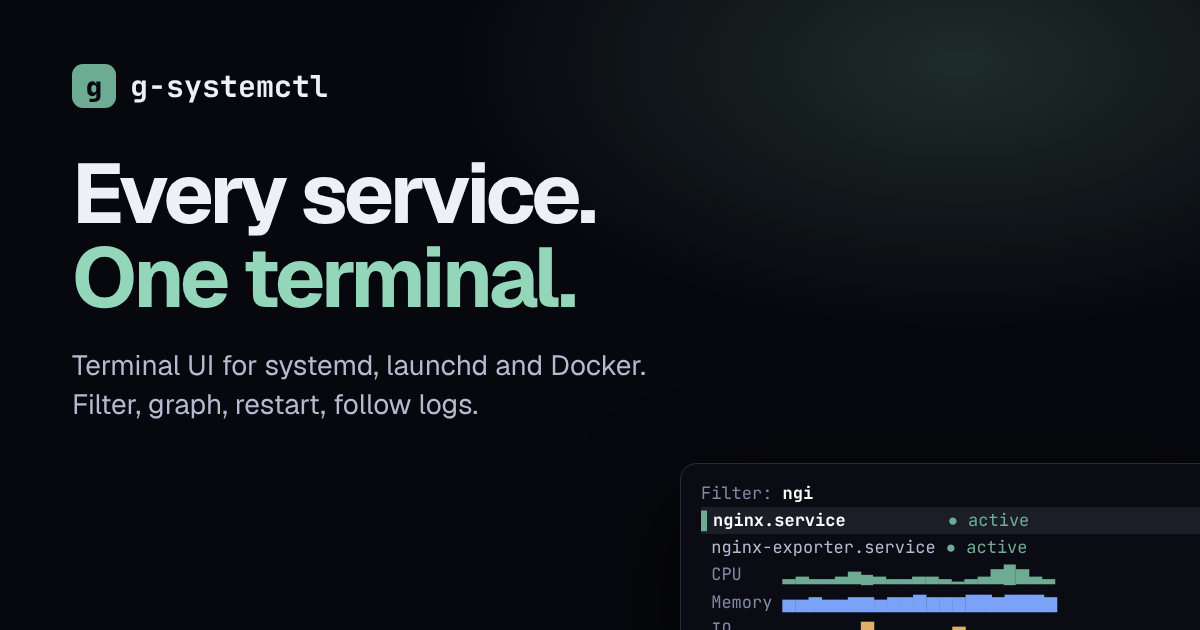
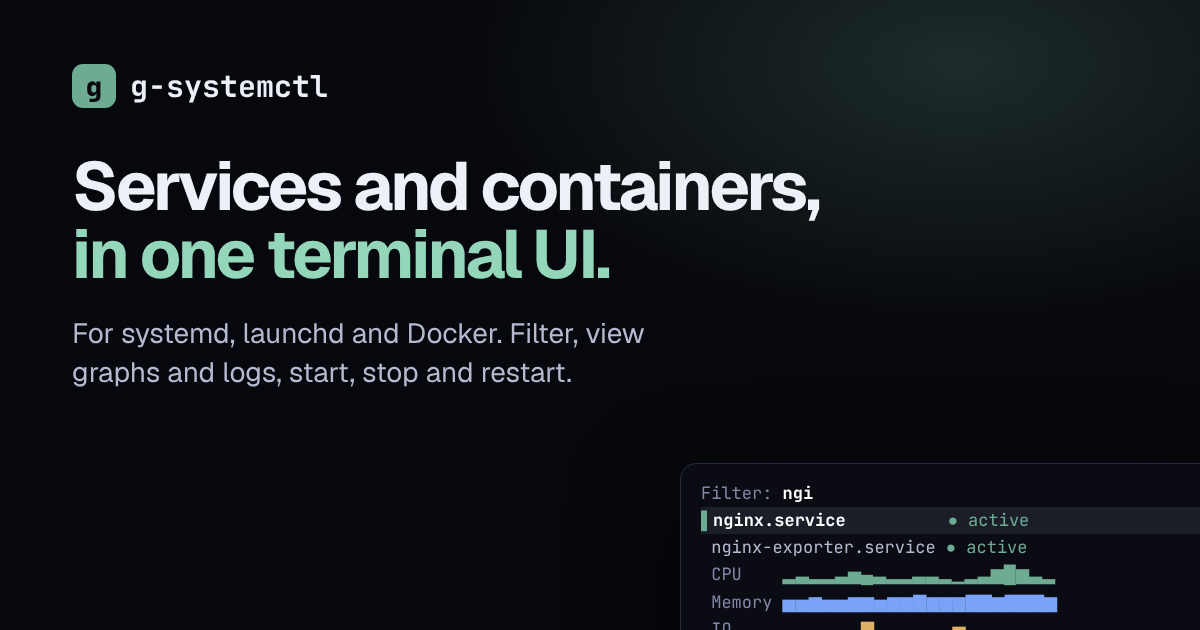
Rewrite site copy in plain language and fix inaccurate claims
- Headings name the section (Navigation, Features, Keyboard shortcuts,
  Install, FAQ) instead of slogans; hero says what the tool is for
- Remove claims that could not be checked: "up in ten seconds",
  "unedited", the feature list tied to the release pill (now a link to
  the latest release notes)
- FAQ: container graphs work on macOS, only service graphs need systemd;
  sudo is only needed to change system services; macOS installs via a
  Homebrew formula, not a prebuilt package
- Secrets card lists the actual name markers the code checks
- Drop the stats row, the eyebrow labels and most em dashes
- Tighten blog intros and the hero demo captions
- Regenerate the OG image with the new headline
- Fit the nav on 390px-wide phones

Claude-Session: https://claude.ai/code/session_01HkkzNS72ong2b11djaME59

Changed region(s): [[0.0617, 0.2413, 0.6783, 0.6635]]

diff --git a/landing-page/src/scripts/landing.js b/landing-page/src/scripts/landing.js
@@ -349,20 +349,20 @@ $$(".card").forEach((c) => c.addEventListener("pointermove", (e) => {
   async function loop() {
     for (; ;) {
       reset(); stopCtr(); render();
-      key([], "Every unit on the machine, with live status");
+      key([], "All units, with status, PID, CPU and memory");
       await wait(2000);
-      caption("Type to filter. No search mode.");
+      caption("Type to filter");
       for (const ch of "nginx") { S.filter += ch; S.sel = 0; key([ch]); render(); await wait(240); }
       await wait(900);
       key(["↓"]); S.sel = 1; render(); await wait(500);
       key(["↑"]); S.sel = 0; render(); await wait(600);
-      key(["Enter"], "Enter opens the detail page: summary, graphs, logs");
+      key(["Enter"], "Detail page: summary, graphs and logs");
       S.view = "detail"; render(); startLive(); await wait(4200);
-      key(["Alt", "r"], "Restart asks first");
+      key(["Alt", "r"], "Restart asks for confirmation");
       S.flash = "restart"; S.dialog = "confirm"; render(); S.flash = ""; await wait(1700);
-      key(["Enter"], "Enter does nothing here — no accidental restarts");
+      key(["Enter"], "Enter is ignored in the prompt");
       S.shake = true; render(); S.shake = false; await wait(1900);
-      key(["y"], "Only y confirms");
+      key(["y"], "y confirms");
       S.dialog = null; S.state = "deactivating";
       addLog({ src: "systemd[1]", msg: "Stopping nginx.service - A high performance web server...", sys: 1 }); render(); await wait(1100);
       S.state = "activating"; S.pid = String(4000 + ((Math.random() * 900) | 0));
@@ -370,17 +370,17 @@ $$(".card").forEach((c) => c.addEventListener("pointermove", (e) => {
       addLog({ src: "systemd[1]", msg: "Starting nginx.service - A high performance web server...", sys: 1 }); render(); await wait(1100);
       S.state = "active";
       addLog({ src: "systemd[1]", msg: "Started nginx.service - A high performance web server.", sys: 1 }); render(); await wait(2200);
-      key(["Enter"], "Enter again: full-size logs");
+      key(["Enter"], "Full-size logs");
       S.view = "logs"; render(); await wait(3000);
-      key(["Esc"], "Esc goes back one level");
+      key(["Esc"], "Back one level");
       S.view = "detail"; render(); await wait(1100);
       key(["Esc"]); S.view = "list"; stopLive(); render(); await wait(1000);
-      key(["Esc"], "…then clears the filter");
+      key(["Esc"], "On the list, Esc clears the filter");
       S.filter = ""; S.sel = 7; render(); await wait(1300);
-      key(["Tab"], "Tab: Docker containers with live CPU and memory");
+      key(["Tab"], "Containers tab");
       S.tab = "ctr"; S.sel = 0; render(); startCtr(); await wait(1600);
       key(["↓"]); S.sel = 1; render(); await wait(1600);
-      key(["Alt", "u"], "Change limits in place with docker update");
+      key(["Alt", "u"], "Edit limits with docker update");
       S.edit = { field: 0, cpus: "1.00", mem: "1g", swap: "2g", pids: "200", policy: "unless-stopped" };
       S.dialog = "limits"; render(); await wait(1100);
       S.edit.cpus = ""; render(); await wait(250);
@@ -389,7 +389,7 @@ $$(".card").forEach((c) => c.addEventListener("pointermove", (e) => {
       S.edit.mem = ""; render(); await wait(200);
       await type((c) => (S.edit.mem += c), "2g");
       await wait(500);
-      key(["Enter"], "Applied live. No recreate.");
+      key(["Enter"], "Applied while the container runs");
       S.dialog = null; CTRS[1].lim = "2GiB"; S.status = "Updated api: --cpus 2.00 --memory 2g"; render(); await wait(2800);
       key(["Tab"], ""); S.tab = "svc"; stopCtr(); S.status = "";
     }
@@ -397,7 +397,7 @@ $$(".card").forEach((c) => c.addEventListener("pointermove", (e) => {
 
   if (RM) {
     reset(); S.filter = "nginx"; S.view = "detail"; render();
-    caption("Detail page: summary, live graphs and logs");
+    caption("Detail page: summary, graphs and logs");
   } else {
     loop();
   }

diff --git a/landing-page/src/styles/landing.css b/landing-page/src/styles/landing.css
@@ -20,7 +20,7 @@
 .pill b { font-family: var(--mono); font-size: 11px; color: var(--bg); background: var(--acc); padding: 2px 8px; border-radius: 99px; letter-spacing: .04em; }
 h1 {
   margin: 26px auto 22px; max-width: 980px;
-  font-size: clamp(44px, 8.2vw, 104px); line-height: .98; letter-spacing: -.045em;
+  font-size: clamp(38px, 6.6vw, 84px); line-height: 1.02; letter-spacing: -.04em;
   font-weight: 700; color: var(--hi);
 }
 h1 .w { display: inline-block; animation: rise-lcp 1s var(--ease) both; animation-delay: calc(var(--i) * 80ms + 120ms); }
@@ -298,14 +298,6 @@ h1 .acc {
 .plat-list li { display: flex; gap: 10px; color: var(--text); }
 .plat-list li::before { content: "▸"; color: var(--acc); }
 
-/* ---------- stats ---------- */
-.stats { display: grid; grid-template-columns: repeat(4, 1fr); border-top: 1px solid var(--line-2); border-bottom: 1px solid var(--line-2); margin-top: 140px; }
-.stat { padding: 40px 28px; border-right: 1px solid var(--line-2); }
-.stat:last-child { border-right: 0; }
-.stat .v { font-size: clamp(36px, 4.5vw, 56px); font-weight: 700; letter-spacing: -.04em; color: var(--hi); line-height: 1; font-variant-numeric: tabular-nums; }
-.stat .v small { font-size: .45em; color: var(--acc); margin-left: 4px; letter-spacing: 0; }
-.stat .l { margin-top: 10px; color: var(--muted); font-size: 14px; }
-
 /* ---------- keys ---------- */
 .keymap { display: grid; grid-template-columns: repeat(4, minmax(0, 1fr)); gap: 12px; }
 .kt {
@@ -370,9 +362,6 @@ h1 .acc {
   .bento { grid-template-columns: 1fr 1fr; }
   .card.s3 { grid-column: span 2; }
   .keymap { grid-template-columns: repeat(3, minmax(0, 1fr)); }
-  .stats { grid-template-columns: 1fr 1fr; }
-  .stat:nth-child(2) { border-right: 0; }
-  .stat:nth-child(-n+2) { border-bottom: 1px solid var(--line-2); }
   .card.plat { grid-template-columns: 1fr; gap: 28px; }
   .faq { grid-template-columns: 1fr; }
 }

diff --git a/landing-page/src/styles/global.css b/landing-page/src/styles/global.css
@@ -68,7 +68,7 @@ a { color: inherit; text-decoration: none; }
 .gh .stars { font-family: var(--mono); font-size: 12px; color: var(--text); padding: 1px 7px; border: 1px solid var(--line); border-radius: 99px; }
 .gh .stars:empty { display: none; }
 .brand, .gh, .stars { white-space: nowrap; }
-@media (max-width: 640px) { .nav-links .opt, .gh .opt-t { display: none; } }
+@media (max-width: 640px) { .nav-links .opt, .gh .opt-t { display: none; } .nav-links a { padding: 7px 8px; } .nav { padding-left: 14px; } }
 .btn {
   display: inline-flex; align-items: center; gap: 9px; min-height: 46px; padding: 0 20px;
   border-radius: 12px; border: 1px solid var(--line); background: var(--panel);

diff --git a/landing-page/src/lib/site.ts b/landing-page/src/lib/site.ts
@@ -1,8 +1,8 @@
 export const SITE = {
   name: "g-systemctl",
-  title: "g-systemctl — services and containers in one terminal UI",
+  title: "g-systemctl: terminal UI for systemd, launchd and Docker",
   description:
-    "g-systemctl is a keyboard-driven terminal UI for systemd, launchd and Docker. Filter, inspect, graph, start, stop, restart and follow logs.",
+    "Keyboard-driven terminal UI to list, filter, start, stop and restart systemd and launchd services and Docker containers, with live graphs and logs.",
   repo: "https://github.com/shakg/g-systemctl",
   author: "shakg",
 } as const;

diff --git a/landing-page/src/pages/rss.xml.ts b/landing-page/src/pages/rss.xml.ts
@@ -7,7 +7,7 @@ export async function GET(context: APIContext) {
   const list = await posts();
   return rss({
     title: `${SITE.name} blog`,
-    description: "Notes on building g-systemctl, a terminal UI for systemd, launchd and Docker.",
+    description: "How g-systemctl, a terminal UI for systemd, launchd and Docker, works.",
     site: new URL(url(), context.site).href,
     items: list.map((p) => ({
       title: p.data.title,

diff --git a/landing-page/src/content/blog/following-docker-logs-across-restarts.md b/landing-page/src/content/blog/following-docker-logs-across-restarts.md
@@ -7,7 +7,7 @@ tags: [docker, logs, internals]
 
 `docker logs -f` follows a container's output until the container stops. Then it exits. If you restart the container, you run the command again. If `docker compose up` recreates it, the container has a new ID and the old command would not find it anyway.
 
-g-systemctl's container detail page has a log strip that is supposed to keep following. This post covers how it does that.
+The log strip on g-systemctl's container detail page keeps following through both. Here is how.
 
 ## The naive version and why it fails
 
@@ -45,11 +45,11 @@ docker logs -f --since 1793785333.104882113 <id>
 
 `--since` starts exactly where the old stream stopped, so no line is shown twice and none is skipped.
 
-Using the existing poll instead of a retry loop solves the busy loop for free: there is at most one check every 2 seconds, and it costs nothing extra because the list was being fetched anyway.
+Using the existing poll instead of a retry loop also removes the busy loop: at most one check every 2 seconds, on a list that was being fetched anyway.
 
 ## A race with docker ps
 
-There is a subtle ordering problem. The poll and the log stream run on different threads. A `docker ps` that started *before* the log stream ended can still report the container as running. Acting on that result would start a stream for a container that is already stopping.
+There is a race. The poll and the log stream run on different threads. A `docker ps` that started *before* the log stream ended can still report the container as running. Acting on that result would start a stream for a container that is already stopping.
 
 The fix is to timestamp each poll before it runs, and ignore any poll that started before the stream ended:
 
@@ -65,7 +65,7 @@ Docker can also report a container as running for a moment after its log stream 
 
 `docker compose up` after a config change removes the container and creates a new one with the same name and a new ID. When the followed ID disappears from `docker ps`, g-systemctl looks for a container with the same name. If it finds one, it switches to the new ID, reloads the summary from `docker inspect` and attaches with the same `--since` timestamp.
 
-From the user's side, the log strip just keeps going:
+In the log strip it looks like this:
 
 ```text
 09:42:11 info GET /v1/orders 200 12ms
@@ -78,4 +78,4 @@ From the user's side, the log strip just keeps going:
 
 `journalctl -u <unit> -f` follows the journal, not the process. It keeps running across service restarts, so the service log strip needs none of the above.
 
-Try it: open the Containers tab with `Tab` or `g-systemctl --containers`, press `Enter` on a container, then restart it from another terminal.
+To see it, open the Containers tab with `Tab` or `g-systemctl --containers`, press `Enter` on a container, then restart it from another terminal.

diff --git a/landing-page/src/content/blog/live-graphs-in-a-terminal.md b/landing-page/src/content/blog/live-graphs-in-a-terminal.md
@@ -5,7 +5,7 @@ date: 2026-11-05
 tags: [systemd, graphs, internals]
 ---
 
-Open a service in g-systemctl and the right half of the detail page shows four graphs: CPU, memory, tasks and IO. This post covers where the numbers come from and how they are drawn in a terminal. No agent or extra daemon is involved, just `systemctl` and some arithmetic.
+Open a service in g-systemctl and the right half of the detail page shows four graphs: CPU, memory, tasks and IO. The numbers come from `systemctl`. The rest is arithmetic and Unicode block characters.
 
 ## Where the numbers come from
 
@@ -47,7 +47,7 @@ double update(double counter, double seconds) {
 }
 ```
 
-Three details matter:
+Three cases need care:
 
 - **The time comes from a monotonic clock**, not from the 2-second schedule. If a sample is late because the machine is busy, the rate stays correct.
 - **A counter that goes down means the service restarted** and its cgroup was recreated. That interval is dropped instead of plotted as a negative spike.
@@ -57,7 +57,7 @@ CPU nanoseconds per second divided by 10⁷ gives percent of one core. A service
 
 ## Ten minutes of history
 
-Each metric keeps its last 300 samples in a `std::deque`. At one sample per 2 seconds that is 10 minutes, which is enough to see a restart, a memory leak or a cron job, and small enough that memory use never matters.
+Each metric keeps its last 300 samples in a `std::deque`. At one sample per 2 seconds that is 10 minutes, enough to see a restart, a slow leak or a cron job. 300 doubles per metric is negligible memory.
 
 ## Drawing with eighths
 
@@ -84,4 +84,4 @@ At 100 or more columns, graphs sit beside the summary and are on by default. On 
 
 The Containers tab already polls `docker stats` every 2 seconds for the list, so it keeps a history per running container from that same poll. When you open a container's detail page, its graphs already show the last few minutes. Network and block IO come from `docker stats` as totals since start, and use the same counter-to-rate step as above.
 
-Try it: install from the [latest release](https://github.com/shakg/g-systemctl/releases/latest), run `sudo g-systemctl`, pick a service and press `Enter`.
+To see it, install from the [latest release](https://github.com/shakg/g-systemctl/releases/latest), run `sudo g-systemctl`, pick a service and press `Enter`.
